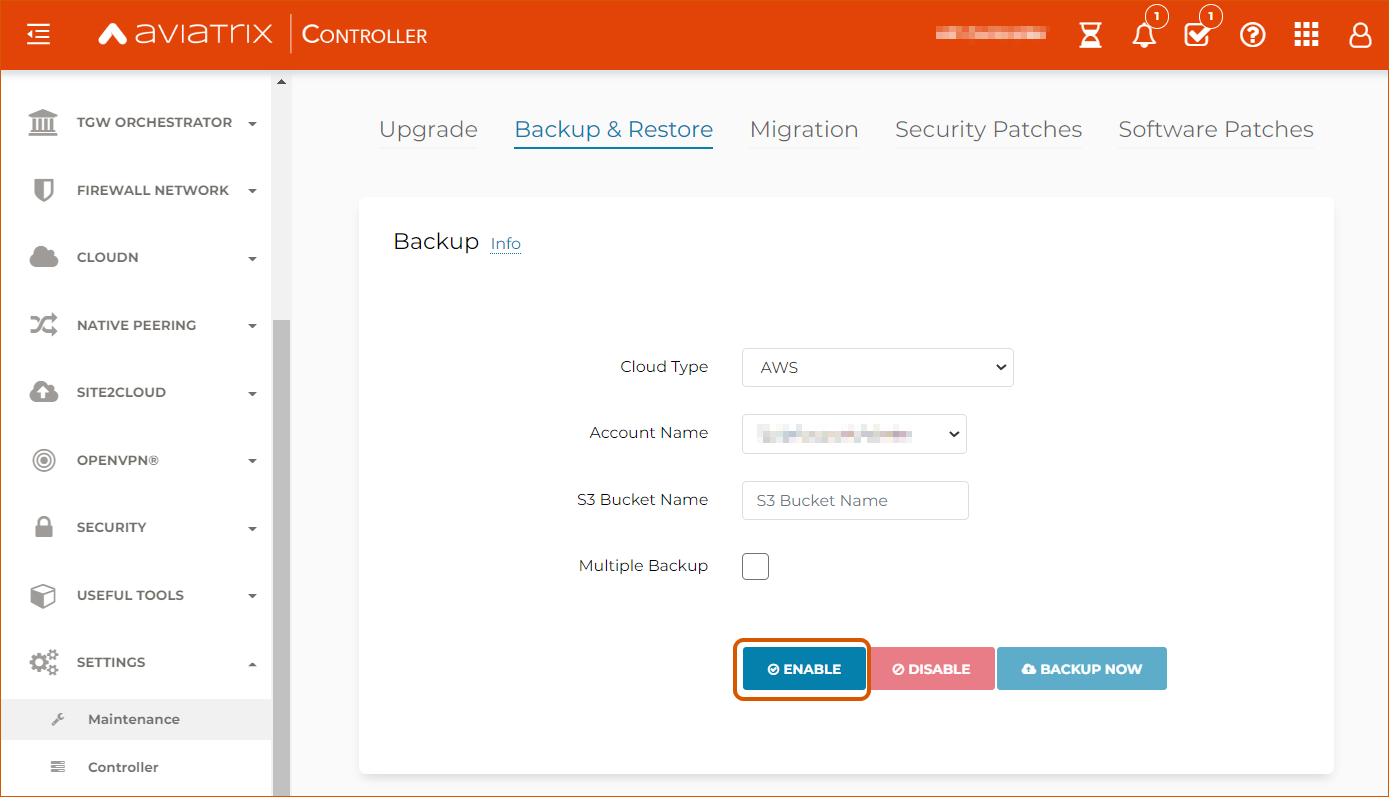
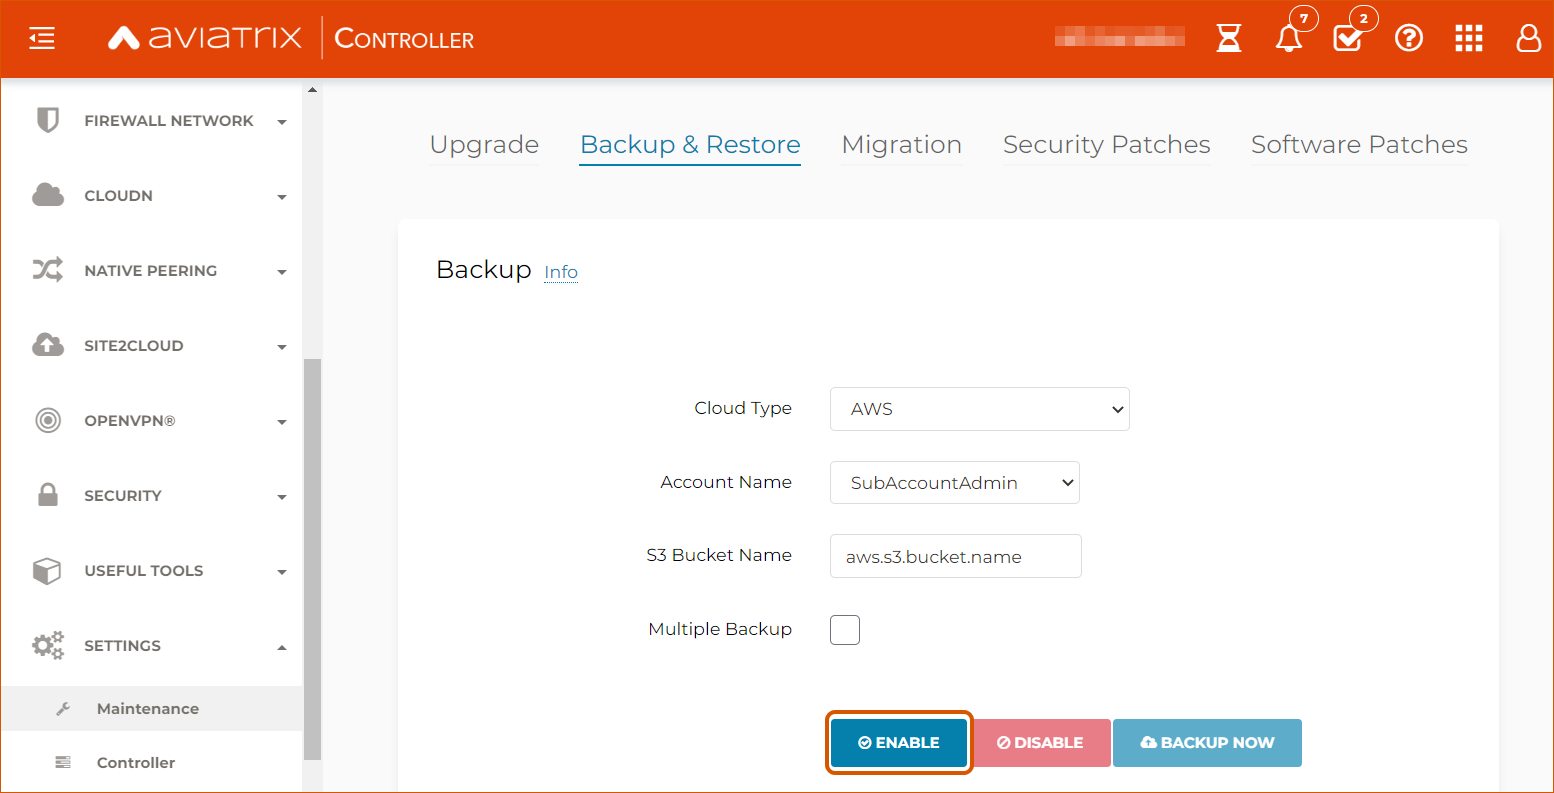
Adding a missing step/instruction
Added more detail about the Backup function and the requirements for the S3 bucket name. Also changed the screenshot for that section, as it left the S3 Bucket Name field empty, and that value is required.

diff --git a/HowTos/Migration_From_Marketplace.rst b/HowTos/Migration_From_Marketplace.rst
@@ -39,7 +39,7 @@ Prerequisites
 
      |controller_versions|
 
-* An S3 bucket in the AWS account linked to your Aviatrix Controller (will be used for backups).
+* An `S3 bucket <https://docs.aws.amazon.com/AmazonS3/latest/userguide/creating-bucket.html>`_ in the AWS account linked to your Aviatrix Controller (will be used for backups).
 * Your IAM policy must be updated in all your AWS accounts. Please refer the instructions `here <https://docs.aviatrix.com/HowTos/iam_policies.html#updating-iam-policies>`__ to update your IAM policies.
 * Make sure you **delete the Controller HA cloud formation stack**. 
 
@@ -88,9 +88,15 @@ Enable Backup
    If you already have backup enabled, click **Backup Now** to make sure you have the latest backup.
    Once complete, confirm in your S3 bucket that the backup file has been updated with the latest timestamp.
 
-#. Log in to your existing Aviatrix Controller.
-#. Navigate to Settings > Maintenance > Backup & Restore tab.
-#. Click **Enable**.
+1. Log in to your existing Aviatrix Controller.
+2. Navigate to Settings > Maintenance > Backup & Restore tab. Enter the name of your S3 bucket in the S3 Bucket Name field. This name must be:
+
+* Between 3-63 characters long.
+* A series of labels separated by a single period (.)
+* Start and end with a lowercase letter or number.
+* Must **not** be formatted as an IP address (such as 92.168.5.4).
+
+3. Click **Enable**.
 
 |enable_backup|
 
